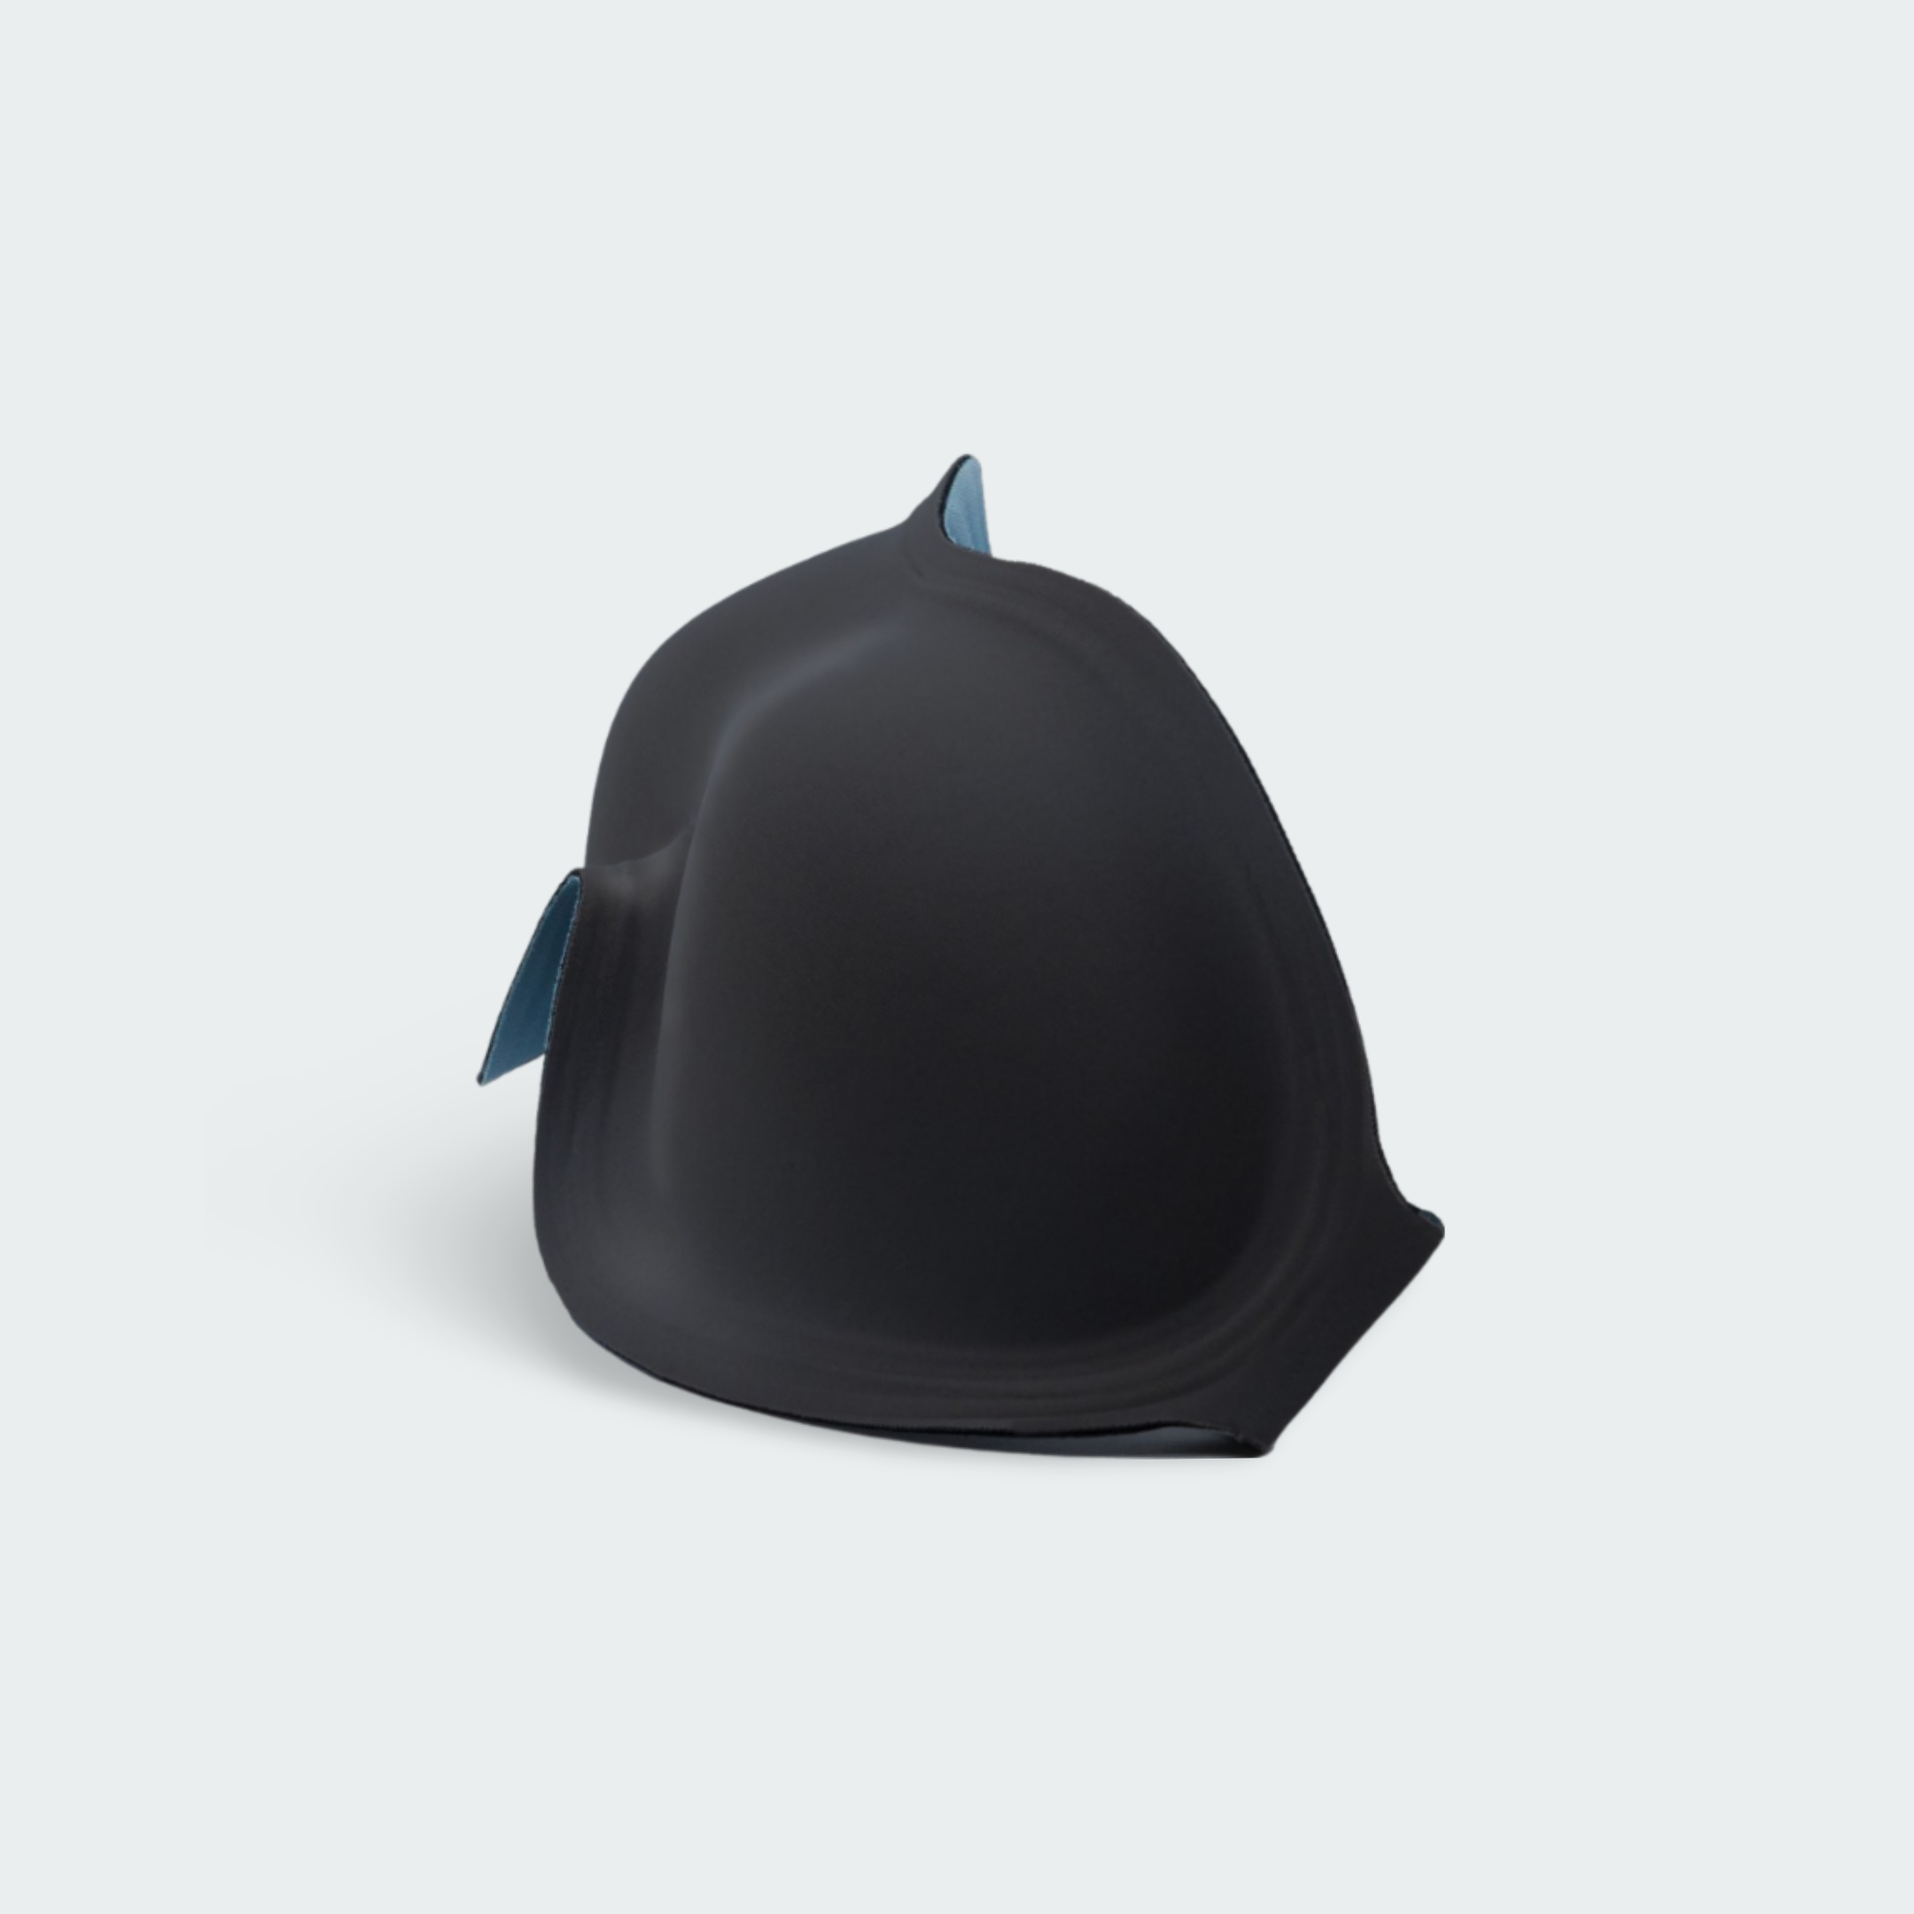
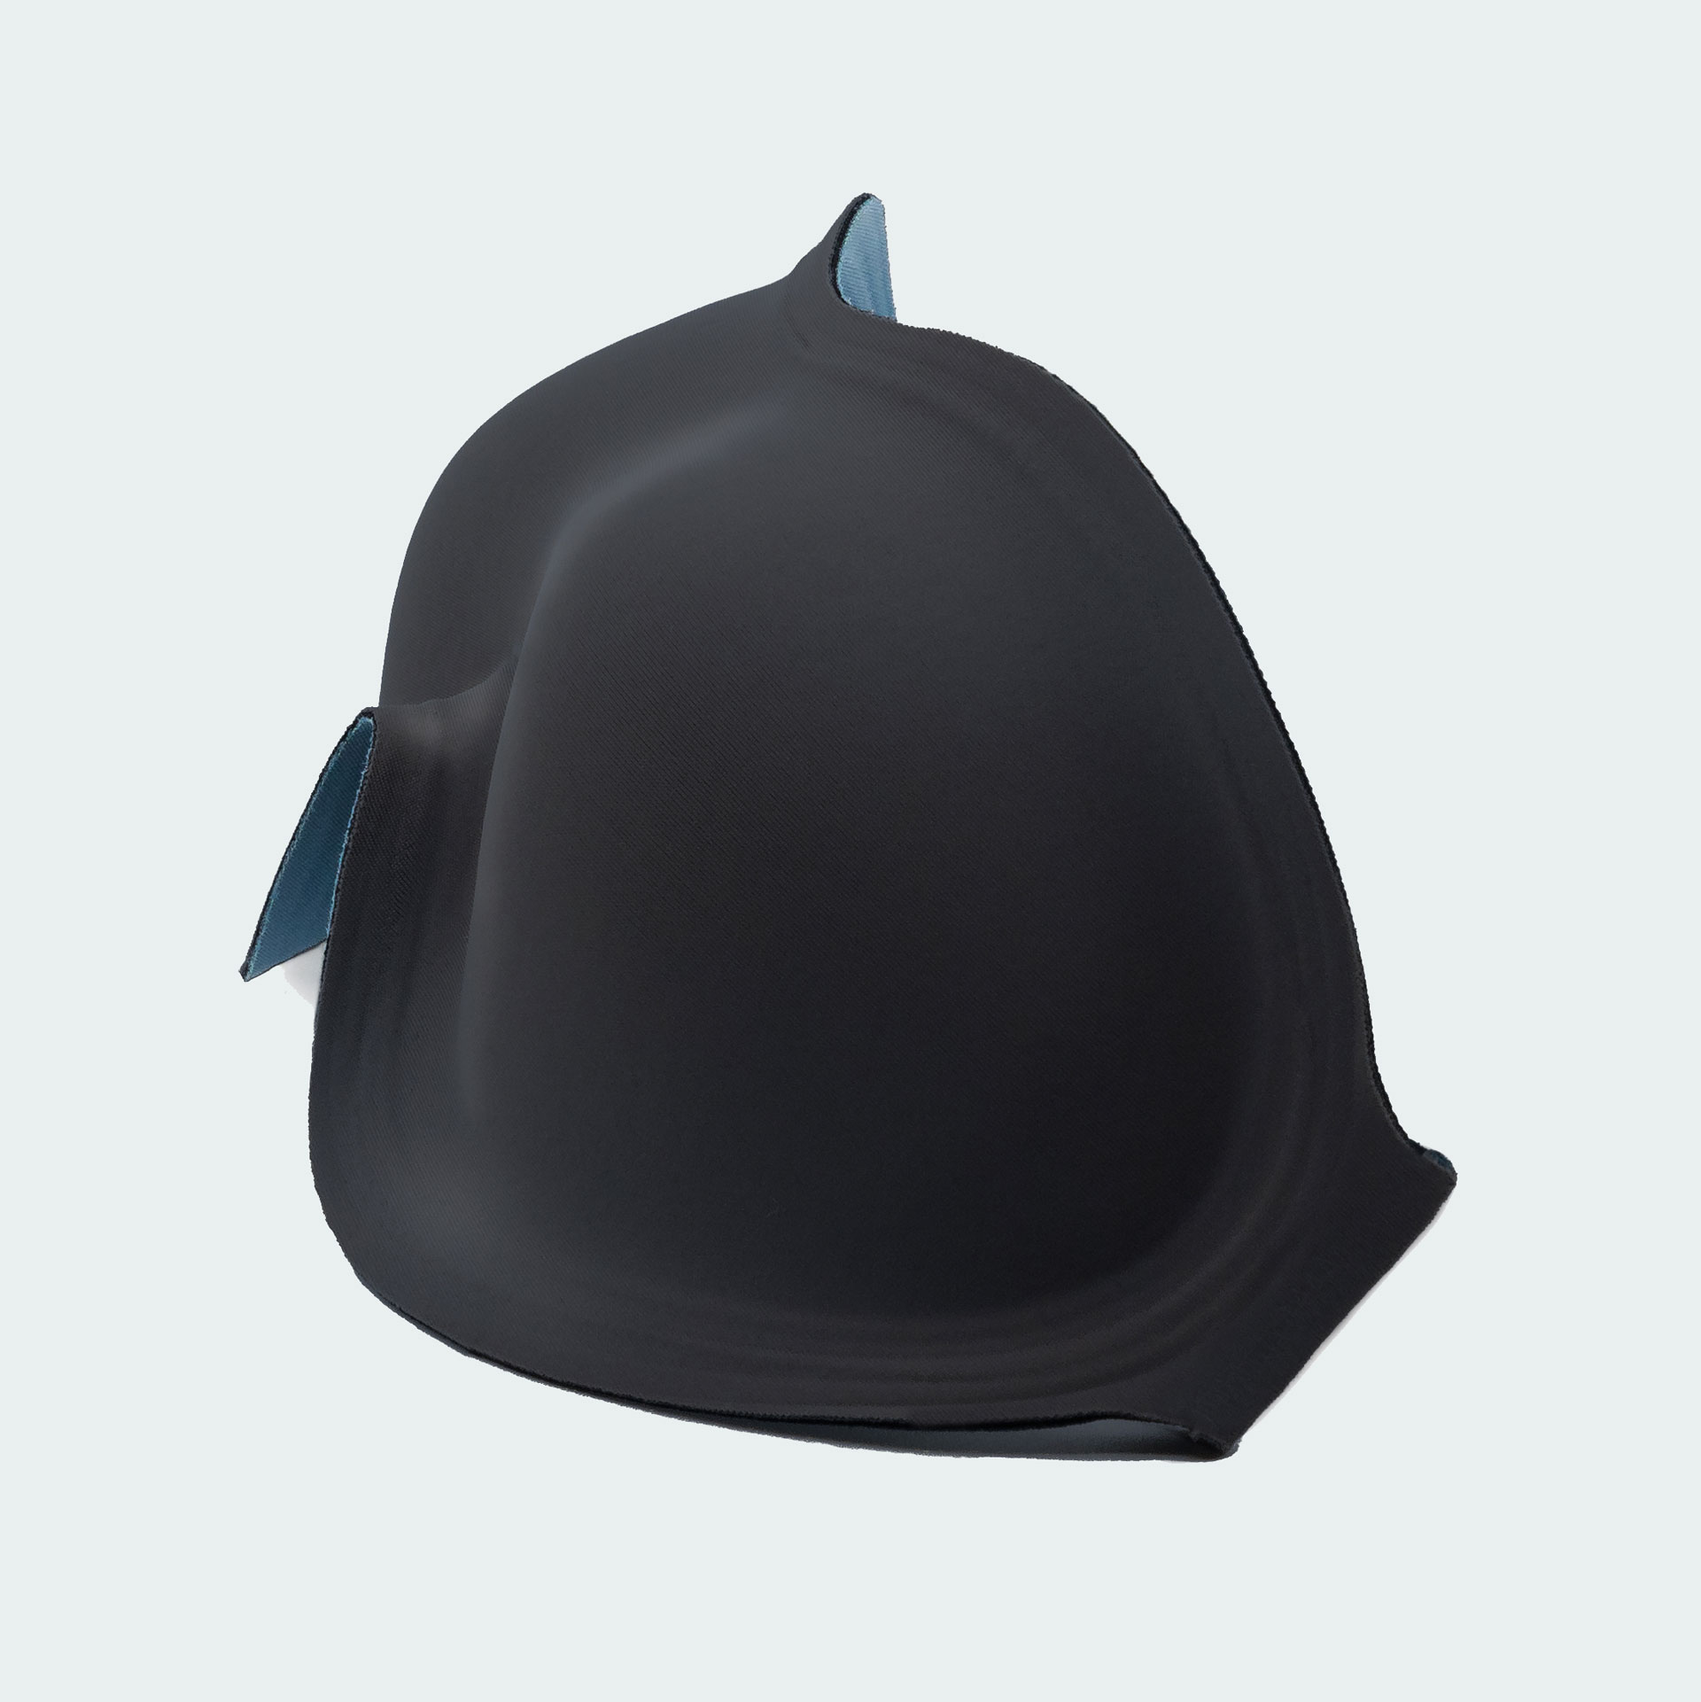
Add new product images

Changed region(s): [[0.125, 0.0937, 0.875, 0.8745], [0.375, 0.3436, 0.4375, 0.406], [0.4375, 0.3123, 0.4688, 0.3436]]

diff --git a/shop-storefront/src/components/productPageTemplates/ProductInfoSection.tsx b/shop-storefront/src/components/productPageTemplates/ProductInfoSection.tsx
@@ -48,7 +48,7 @@ const ProductTemplate: React.FC<ProductTemplateProps> = ({product, productFAQ, s
 
         if (selectedColor) {
             const basePath = `${productImageDirectory}${selectedColor}/`;
-            const updatedPaths = Array(5).fill(null).map((_, idx) => `${basePath}image${idx + 1}.jpg`);
+            const updatedPaths = Array(8).fill(null).map((_, idx) => `${basePath}image${idx + 1}.jpg`);
 
             setImagePaths(updatedPaths);
 
